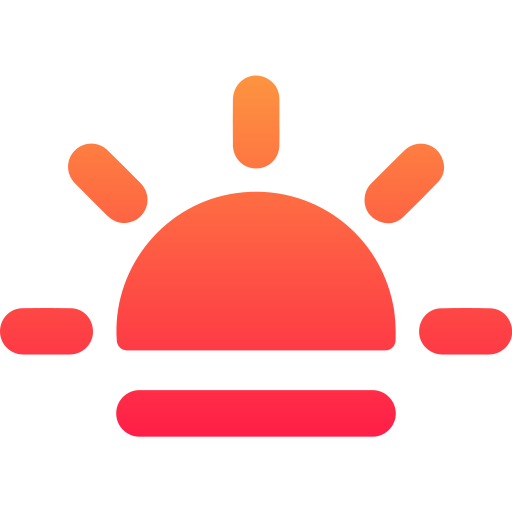
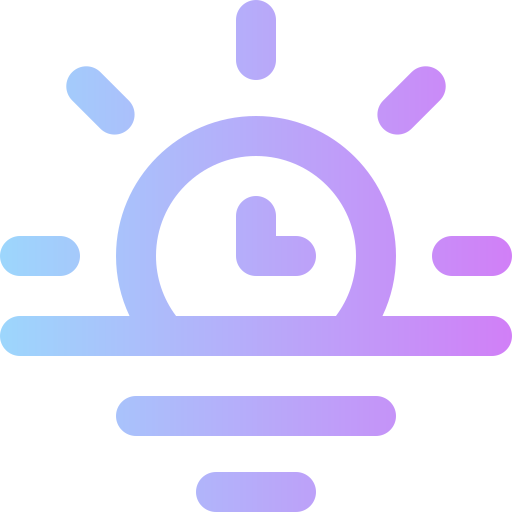
README

diff --git a/src/pages/home/Home.tsx b/src/pages/home/Home.tsx
@@ -19,7 +19,7 @@ function Home() {
     index = index[0].includes('0') ? index.substring(1, 2) : index
 
     return (
-        <div className="px-16">
+        <div className="px-16 ">
             <div className="grid grid-cols-[2fr_80%_2fr] gap-10 w-full items-center ">
                 <div className="rounded-lg w-80 h-fit border-2 shadow-xl dark:shadow-black dark:text-gray-300 dark:bg-black dark:border-0">
                     <div className="p-2 mt-10">
@@ -94,15 +94,15 @@ function Home() {
                         <div className="rounded-lg border-2 w-full h-80 p-5 dark:shadow-black dark:text-gray-300 dark:bg-black dark:border-0">
                             <h5 className="py-1">Sunrise and Sunset</h5>
                             <div className="m-auto py-6">
-                                <img className="m-auto" src="uv.png" alt="" width="150px" height="150px" />
+                                <img className="m-auto" src="sunrise.png" alt="" width="150px" height="150px" />
                             </div>
                             <div className="flex justify-between items-center">
                                 <div className="flex flex-col items-center">
-                                    <img className="self-center" src="sunrise.gif" alt="" width="40px" height="40px" />
+                                    <img className="self-center" src="sunrise.png" alt="" width="40px" height="40px" />
                                     <h5 className="font-bold text-sm">{new Date(data.daily.sunrise[0]).toLocaleTimeString()}</h5>
                                 </div>
                                 <div className="flex flex-col  items-center">
-                                    <img src="sunset.gif" width="40px" height="40px" />
+                                    <img src="sea.png" width="40px" height="40px" />
                                     <h5 className="font-bold text-sm">{new Date(data.daily.sunset[0]).toLocaleTimeString()}</h5>
                                 </div>
 
@@ -119,9 +119,9 @@ function Home() {
 
                 </div>
             </div>
-            <div className="grid grid-cols-[2fr_80%_2fr] gap-10 w-fit">
+            <div className="grid grid-cols-[2fr_80%_2fr] gap-10 w-fit ">
                 <div className="mt-10 shadow-xl dark:shadow-black dark:text-gray-300 dark:bg-black ">
-                    <div className="rounded-lg border-2 w-80 object-contain">
+                    <div className="rounded-lg border-2 w-80 object-contain dark:border-0">
                         {data.daily.temperature_2m_max.map((index: number, value: any) =>
                             <div className="flex justify-between p-3" key={value}>
                                 <h3 className="font-semibold text-lg">{index} &deg;C</h3>

diff --git a/src/App.tsx b/src/App.tsx
@@ -2,11 +2,19 @@
 import './App.css'
 import { BrowserRouter, Routes, Route, Link } from 'react-router-dom'
 import { QueryClientProvider, QueryClient } from 'react-query';
+import { Chart as ChartJS, CategoryScale, LinearScale, PointElement, LineElement, Legend, Tooltip } from 'chart.js';
 import Home from './pages/home/Home'
 import Setting from './pages/setting/Index';
 import Stat from './pages/stat/Index';
 const queryClient = new QueryClient();
-
+ChartJS.register(
+  Tooltip,
+  Legend,
+  LineElement,
+  PointElement,
+  CategoryScale,
+  LinearScale
+)
 function App() {
   if (localStorage.getItem("theme") == "dark") {
     document.documentElement.classList.add('dark');

diff --git a/README.md b/README.md
@@ -1,0 +1,26 @@
+# WEATHERFY
+Simple weather forcast web application that show you current and future weather. 
+## Description
+The application uses the open-metro api for it's data. Open-metro is an open source weather api that collects weather data from different sources. 
+### Dependencies
+ * NodeJS v.16.18.1 or above
+ * npm 8.5.5 or above
+ * react 18.2.0 or above
+ * react-query 3.39.0
+ * react-router-dom
+ * vite
+ * tailwindcss
+### Installing
+```
+npm install
+```
+
+### Run application
+```
+npm run dev
+```
+Go to http://localhost:5173
+## Screenshot
+[alt text](s1.png "screenshot 1")
+### Author
+ * Mikias kegnlyew - mikekegnlyew@gmail.com
